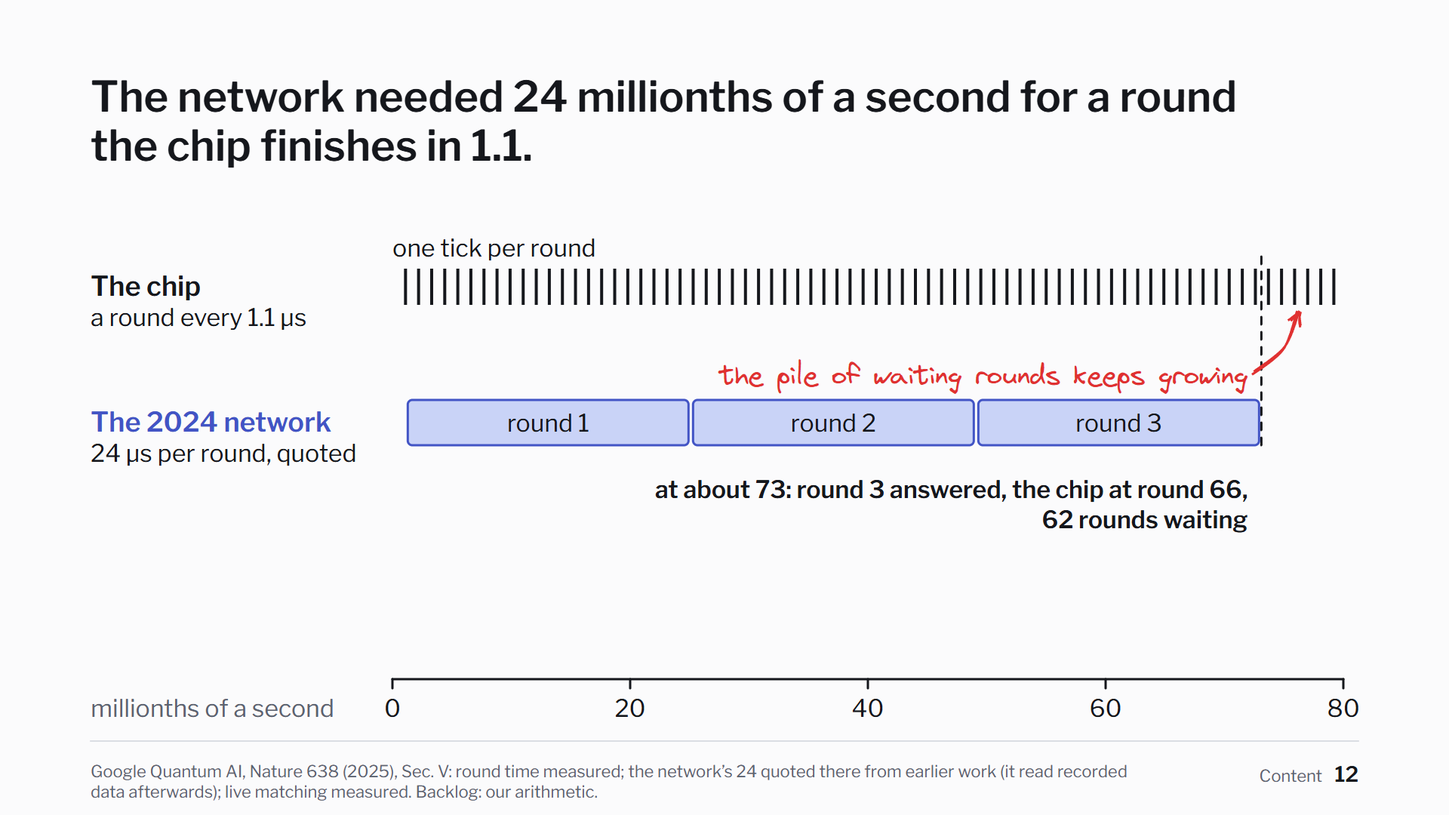
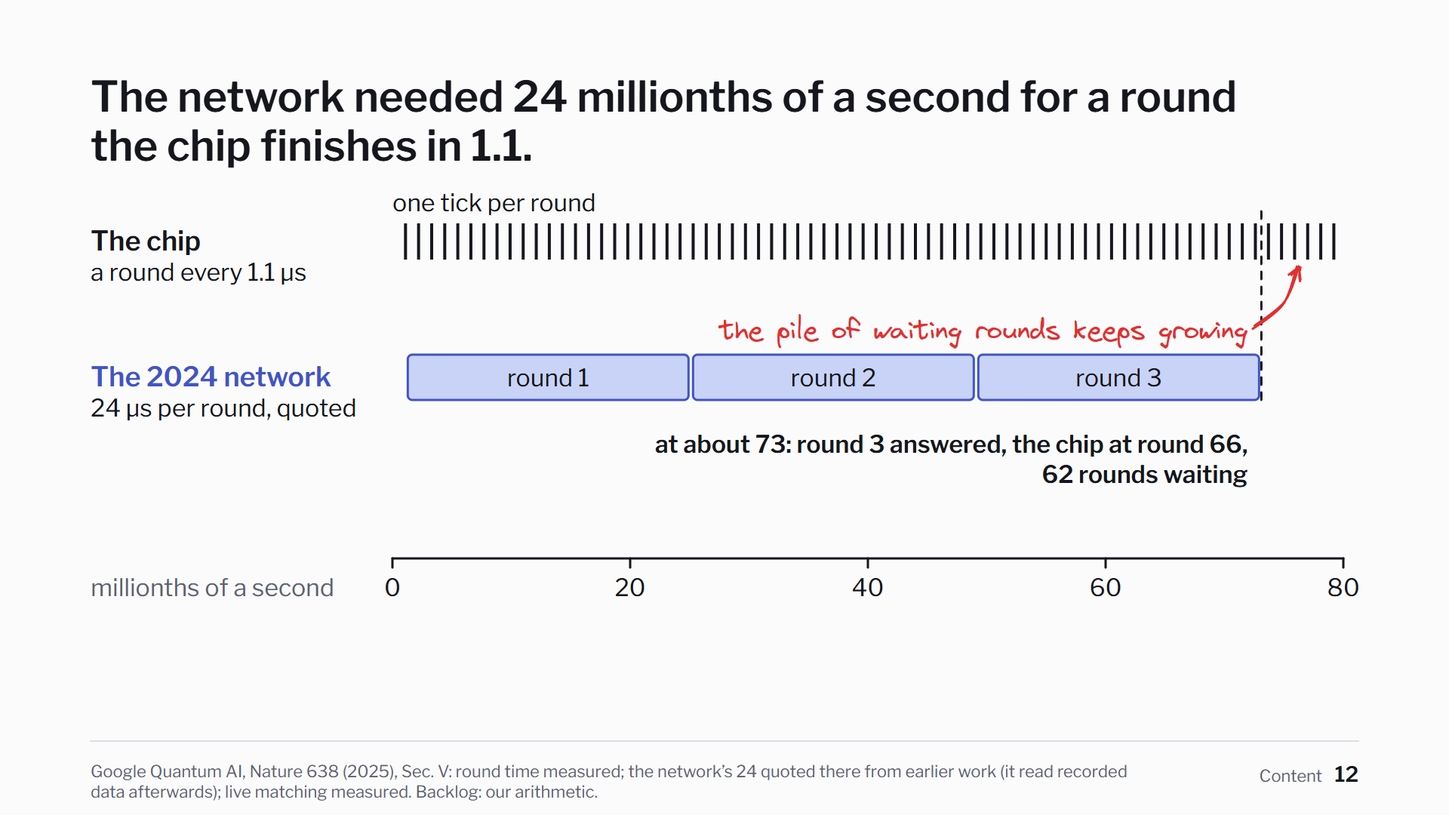
fix: clarify the quantum seminar evidence

diff --git a/talks/quantum/slides/14-ours/slide.js b/talks/quantum/slides/14-ours/slide.js
@@ -6,24 +6,24 @@
 // correlated matching dashed ink, the lookup table (distance 3 only) dotted.
 // Build 1: distance 3, and distance 5 after 66 million (axis already at 260
 // million); build 2 adds the run to about 250 million.
-import { C, L, R, svgOf, T, frame, ln, pth, h, inkLayer, PEN } from '../../kit.js';
+import { C, L, R, svgOf, T, frame, ln, pth, h } from '../../kit.js';
 
 const pct = (v, dg = 2) => `${(v * 100).toFixed(dg)}%`;
 
 export default {
   id: 'ours', n: 14, part: 'Content', builds: 2, speaker: 'B',
-  title: 'Ours passed plain matching at distance 5 only after about 250 million examples.',
+  title: 'Our distance-5 network finished between the two matchers.',
   clicks: ['distance 3; distance 5 after 66 million', 'distance 5, about 250 million'],
   draw(page, b, data) {
     const svg = svgOf(page);
     const [p3, p66, p250] = data.learning.panels;
     frame(svg, {
-      title: this.title, n: this.n, part: this.part,
-      source: 'Simulated, our own runs at 0.5% per operation (OWN-D3, OWN-D5, OWN-D5-250M): share of runs (3 rounds at distance 3, 5 at distance 5) that ended wrong. Curve points on 1 million runs, end values on 2 million.',
+      title: b === 0 ? 'At 66 million examples, distance 5 trailed both matchers.' : this.title,
+      n: this.n, part: this.part,
+      source: 'Simulated, our own runs (OWN-D3, OWN-D5, OWN-D5-250M). Each curve point uses 1 million test runs, end values use 2 million per seed.',
     });
-    T(svg, L, 312, 'share of simulated runs (3 rounds at distance 3, 5 at distance 5) that ended wrong', { size: 32, weight: 600 });
-    // the article's own tag line, in its mono face
-    T(svg, R, 222, 'our runs · simulation · noise level 0.5%', { family: 'mono', size: 30, fill: C.muted, anchor: 'end' });
+    T(svg, L, 288, 'Share of simulated runs that ended wrong', { size: 36, weight: 600 });
+    T(svg, R, 288, '0.5% circuit noise', { family: 'mono', size: 32, fill: C.ink, anchor: 'end' });
     const panel = (x0, x1, xmax, step, ylo, yhi, head) => {
       const y0 = 420, y1 = 830;
       const X = (n) => x0 + (n / xmax) * (x1 - x0);
@@ -51,30 +51,29 @@ export default {
     // each line named at its right end, outside the plot, so no label crosses a curve
     const tag = (P, r, str, o = {}) => T(svg, P.x1 + 14, P.Y(r) + 11 + (o.dy || 0), str, { size: 32, ...o });
     // left: distance 3, 0 to 70 million
-    const A = panel(L + 120, 660, 70e6, 10e6, 0.014, 0.020, 'Distance 3');
+    const A = panel(L + 120, 660, 70e6, 10e6, 0.014, 0.020, 'Distance 3 · three rounds');
     level(A, p3.levels.plain.rate); level(A, p3.levels.correlated.rate, '18 12'); level(A, p3.levels.table.rate, '3 10');
     band(A, p3);
     tag(A, p3.levels.plain.rate, `plain ${pct(p3.levels.plain.rate)}`, { dy: -6 });
     tag(A, p3.levels.correlated.rate, `correlated ${pct(p3.levels.correlated.rate)}`, { dy: 8 });
-    tag(A, p3.levels.correlated.rate, 'its lead not counted (B4)', { dy: 44, fill: C.muted });
+    tag(A, p3.levels.correlated.rate, 'see library issue (B4)', { dy: 44, fill: C.muted });
     tag(A, p3.final_network.mean, `network ${pct(p3.final_network.mean)}`, { dy: -22, weight: 600, fill: C.accent });
     tag(A, p3.levels.table.rate, `lookup table ${pct(p3.levels.table.rate)}`, { dy: 20 });
     // right: distance 5, 0 to 260 million, fixed from the first build
-    const B = panel(1180, 1540, 260e6, 50e6, 0.010, 0.028, 'Distance 5');
-    level(B, p66.levels.plain.rate); level(B, p66.levels.correlated.rate, '18 12');
-    tag(B, p66.levels.plain.rate, `plain ${pct(p66.levels.plain.rate)}`, { dy: -14 });
-    tag(B, p66.levels.correlated.rate, `correlated ${pct(p66.levels.correlated.rate)}`, { dy: 14 });
+    const B = panel(1140, 1490, 260e6, 50e6, 0.010, 0.028, 'Distance 5 · five rounds');
+    const result = b === 0 ? p66 : p250;
+    level(B, result.levels.plain.rate); level(B, result.levels.correlated.rate, '18 12');
+    tag(B, result.levels.plain.rate, `plain ${pct(result.levels.plain.rate)}`, { dy: -18, size: 36, weight: 600 });
+    tag(B, result.levels.correlated.rate, `correlated ${pct(result.levels.correlated.rate)}`, { dy: 14, size: 36, weight: 600 });
     if (b === 0) {
       const [ex, ey] = band(B, p66);
       T(svg, ex + 24, ey - 40, 'after 66 million:', { size: 32, weight: 600, fill: C.accent });
       T(svg, ex + 24, ey, 'behind in all five seeds', { size: 32, weight: 600, fill: C.accent });
     } else {
       band(B, p250);
-      tag(B, p250.final_network.mean, `network ${pct(p250.final_network.mean)}`, { dy: 18, weight: 600, fill: C.accent });
-      const ink = inkLayer(page);
-      ink.ellipse(B.X(250e6) - 6, B.Y(p250.final_network.mean) - 4, 46, 46, { stroke: PEN.red, seed: 81 });
-      ink.note(B.X(120e6), B.Y(0.0245), 'it got there, slowly', { color: PEN.red, size: 34 });
-      ink.arrow([[B.X(215e6), B.Y(0.0236)], [B.X(240e6), B.Y(0.019)], [B.X(248e6), B.Y(p250.final_network.mean) - 30]], { stroke: PEN.red, seed: 82, head: 20 });
+      tag(B, p250.final_network.mean, `network ${pct(p250.final_network.mean)}`, { dy: 22, size: 36, weight: 600, fill: C.accent });
+      T(svg, B.X(58e6), B.Y(0.026), 'training budget:', { size: 32, weight: 600 });
+      T(svg, B.X(58e6), B.Y(0.026) + 38, 'about 250 million', { size: 32, weight: 600 });
     }
   },
 };

diff --git a/talks/quantum/slides/12-clock/slide.js b/talks/quantum/slides/12-clock/slide.js
@@ -1,7 +1,5 @@
-// Slide 12: one time line in millionths of a second (clock.json). The chip
-// finishes a round every 1.1; the 2024 network needs 24 per round (quoted in
-// Google's paper), so the backlog grows; live matching on a smaller chip, in
-// its own lane with its own setup named, kept pace.
+// Slide 12: round throughput on the timeline, then end-of-run latency in
+// a separate row with its own origin (clock.json).
 import { C, L, R, svgOf, T, frame, ln, rc, inkLayer, PEN } from '../../kit.js';
 
 export default {
@@ -19,18 +17,18 @@ export default {
     });
     const x0 = 520, x1 = R - 20, T80 = 80;
     const X = (t) => x0 + (t / T80) * (x1 - x0);
-    const axisY = 900;
+    const axisY = 740;
     ln(svg, x0, axisY, x1, axisY);
     [0, 20, 40, 60, 80].forEach((t) => { ln(svg, X(t), axisY, X(t), axisY + 12); T(svg, X(t), axisY + 50, String(t), { size: 32, anchor: 'middle', fill: C.ink }); });
     T(svg, L, axisY + 50, 'millionths of a second', { size: 32, fill: C.muted });
     // lane 1: the chip
-    const y1 = 380;
+    const y1 = 320;
     T(svg, L, y1 + 12, 'The chip', { size: 36, weight: 600 });
     T(svg, L, y1 + 52, `a round every ${round} µs`, { size: 32 });
     T(svg, x0, y1 - 40, 'one tick per round', { size: 32, fill: C.ink });
     for (let t = round; t <= T80; t += round) rc(svg, X(t) - 2, y1 - 24, 4, 48, { fill: C.ink, stroke: 'none' });
     {
-      const y2 = 560;
+      const y2 = 500;
       T(svg, L, y2 + 12, 'The 2024 network', { size: 36, weight: 600, fill: C.accent });
       T(svg, L, y2 + 52, `${net} µs per round, quoted`, { size: 32 });
       for (let k = 0; k < 3; k++) {
@@ -48,13 +46,11 @@ export default {
       ink.arrow([[X(at) - 10, y2 - 66], [X(at) + 30, y2 - 100], [X(at) + 50, y1 + 34]], { stroke: PEN.red, seed: 94, head: 18 });
     }
     if (b >= 1) {
-      const y3 = 790;
-      T(svg, L, y3 - 8, 'Live matching,', { size: 36, weight: 600 });
-      T(svg, L, y3 + 34, 'distance 5, 72-qubit chip', { size: 32, weight: 600 });
-      // the delay itself, drawn on the same axis: 63 after the last round
-      rc(svg, X(0), y3 - 24, X(live.value) - X(0), 30, { fill: C.hair, stroke: C.ink, 'stroke-width': 3, rx: 4 });
-      T(svg, X(live.value) + 16, y3 + 2, String(live.value), { size: 36, weight: 600 });
-      T(svg, X(0), y3 + 46, 'its answer, on average, after the last round of a run of up to a million rounds: it kept pace', { size: 32 });
+      ln(svg, L, 836, R, 836, { stroke: C.hair, 'stroke-width': 2 });
+      T(svg, L, 889, 'Live matching kept pace', { size: 36, weight: 600 });
+      T(svg, L, 934, 'Distance 5 · 72-qubit chip', { size: 32 });
+      T(svg, 710, 889, `${live.value} µs on average to return the final answer`, { size: 36, weight: 600 });
+      T(svg, 710, 934, 'Measured from receipt of the last round’s data', { size: 32 });
     }
   },
 };

diff --git a/talks/quantum/slides/b3-noise-model/slide.js b/talks/quantum/slides/b3-noise-model/slide.js
@@ -3,10 +3,22 @@ import { svgOf, backup } from '../../kit.js';
 // Backup 3: for the questions.
 export default {
   id: 'noise-model', n: 'B3', backup: true, builds: 1,
-  title: "Our noise: the same chance of any error on every operation.",
+  title: 'Four noise mechanisms share one probability.',
   clicks: ['backup'],
-  draw(page, b, data) {
+  draw(page) {
     const svg = svgOf(page);
-    backup(svg, { title: this.title, n: this.n, source: "Stim (Gidney 2021), its standard circuit noise; article, sections 6 and 9, and 'What we could not show'." }, { rows: [["The course", "The phase-flip channel: with chance p a qubit gets a phase error (Z).", "Our model contains it as one of its parts."], ["Ours", "Every operation in the simulated circuit goes wrong with the same", "chance p, with a flip, a phase error or both (X, Z or Y): depolarizing noise."], ["The levels", "Trained at seven levels from 0.2% to 1%; tested at 0.5%,", "five times the one slip per thousand of slide 2."], ["Not modelled", "Qubits that slip into a third state (leakage), and chances of error", "that differ from operation to operation, as on a real chip."]] });
+    backup(svg, {
+      title: this.title, n: this.n,
+      source: 'The four parameters passed to Stim’s rotated surface-code circuit in our simulation (OWN-D3, OWN-D5, OWN-D5-250M).',
+    }, {
+      rows: [
+        ['Random Pauli errors', 'Depolarization after Clifford gates and on storing qubits before each round.',
+          'It includes phase errors (Z).'],
+        ['Flips', 'Preparation flips after resets and readout flips before measurements.'],
+        ['Noise levels', 'The same parameter p for all four settings.',
+          'Trained at 0.2% to 1%. Main test at 0.5%.'],
+        ['Limits', 'Real chips can leak into a third state and have different rates per operation.'],
+      ],
+    });
   },
 };

diff --git a/talks/quantum/slides/b7-preprint/slide.js b/talks/quantum/slides/b7-preprint/slide.js
@@ -3,10 +3,19 @@ import { svgOf, backup } from '../../kit.js';
 // Backup 7: for the questions.
 export default {
   id: 'preprint', n: 'B7', backup: true, builds: 1,
-  title: "AlphaQubit 2 claims a network that keeps pace. Nobody has reviewed it yet.",
+  title: 'AlphaQubit 2 reports the throughput needed for a superconducting chip.',
   clicks: ['backup'],
-  draw(page, b, data) {
+  draw(page) {
     const svg = svgOf(page);
-    backup(svg, { title: this.title, n: this.n, source: "Claimed: arXiv:2512.07737 (December 2025), not peer-reviewed; read from its abstract." }, { rows: [["The claim", "Under one millionth of a second per round,", "on accelerator chips that can be bought."], ["The range", "Surface code grids up to distance 11."], ["Our position", "We can't test it. Until others review it, it stays a claim."]] });
+    backup(svg, {
+      title: this.title, n: this.n,
+      source: 'AlphaQubit 2 preprint, arXiv:2512.07737v2, section 4 and Figure 4.',
+    }, {
+      rows: [
+        ['Throughput', 'Under one millionth of a second per round on Trillium TPUs.'],
+        ['Setup', 'Simulated surface-code data through distance 11.'],
+        ['Open question', 'Can a live chip get each answer in time to use it?'],
+      ],
+    });
   },
 };

diff --git a/talks/quantum/slides/15-properties/slide.js b/talks/quantum/slides/15-properties/slide.js
@@ -17,7 +17,7 @@ export default {
       ['Performance', `ours at distance 5: ${(p.final_network.mean * 100).toFixed(2)}% of runs wrong`, `correlated matching ${(p.levels.correlated.rate * 100).toFixed(2)}%, plain ${(p.levels.plain.rate * 100).toFixed(2)}%`],
       ['Speed-up', 'none', 'it is classical software that serves the chip'],
       ['Relevance', 'on Google’s data: Λ from 2.04 to 2.14, the reader alone', 'at Λ near 2, one more halving costs 64 qubits (97 to 161)'],
-      ['Availability', 'about 250 million examples to pass plain matching', 'correlated matching is free; a network at live speed is only claimed'],
+      ['Availability', 'our longer run used about 250 million examples', 'correlated matching is free. AQ2 reports stream throughput.'],
     ];
     const y0 = 330, hh = 118;
     const boxA = [], boxC = [];

diff --git a/talks/quantum/slides/13-method/slide.js b/talks/quantum/slides/13-method/slide.js
@@ -23,8 +23,8 @@ export default {
         ink.arrow([[x1, y], [(x1 + x2) / 2, y - 22 + i * 10], [x2, y]], { seed: 60 + i, head: 24 });
       }
     });
-    ink.note(140, y + 150, 'the same chance of error on every operation;', { size: 36 });
-    ink.note(140, y + 196, 'trained at 0.2% to 1%, tested at 0.5%', { size: 36 });
+    ink.note(140, y + 150, 'four noise mechanisms share one probability', { size: 36 });
+    ink.note(140, y + 196, 'trained at 0.2% to 1%, main test at 0.5%', { size: 36 });
     ink.note(1180, y + 150, 'it never sees the', { size: 36, color: PEN.blue });
     ink.note(1180, y + 196, 'grid’s layout', { size: 36, color: PEN.blue });
     if (b < 1) return;

diff --git a/talks/quantum/CUES.md b/talks/quantum/CUES.md
@@ -6,47 +6,47 @@ Generated by `node tools/qdeck.mjs` from each slide's `notes.md`. Times: the not
 | ---: | --- | ---: | --- | --- | --- |
 | 1 | 1 recording | 0:00 | 1 of 2 | the talk, the drawing |  |
 | 2 | 1 recording |  | 2 of 2 | two readers, two rates | One recording from Google’s chip gave two error rates. |
-| 3 | 2 threshold | 0:56 | 1 of 1 | slips against steps; the threshold, sketched | A bigger grid helps when each qubit is below the threshold. |
-| 4 | 3 logical | 1:55 | 1 of 1 | three qubits together; no copy | A logical qubit keeps its value in how its qubits relate. |
-| 5 | 4 grid | 2:41 | 1 of 3 | distance 3 |  |
+| 3 | 2 threshold | 0:57 | 1 of 1 | slips against steps; the threshold, sketched | A bigger grid helps when each qubit is below the threshold. |
+| 4 | 3 logical | 1:56 | 1 of 1 | three qubits together; no copy | A logical qubit keeps its value in how its qubits relate. |
+| 5 | 4 grid | 2:42 | 1 of 3 | distance 3 |  |
 | 6 | 4 grid |  | 2 of 3 | distance 5 |  |
 | 7 | 4 grid |  | 3 of 3 | distance 7 | Only about half of a logical qubit’s qubits store anything. |
-| 8 | 5 checks | 3:12 | 1 of 3 | the grid and its two kinds of check |  |
+| 8 | 5 checks | 3:13 | 1 of 3 | the grid and its two kinds of check |  |
 | 9 | 5 checks |  | 2 of 3 | one flip: two checks fire |  |
 | 10 | 5 checks |  | 3 of 3 | a line of two: only its end fires | A check reports whether the number of errors next to it is even or odd. |
-| 11 | 6 film | 4:20 | 1 of 3 | the film and its enlarged frame |  |
+| 11 | 6 film | 4:21 | 1 of 3 | the film and its enlarged frame |  |
 | 12 | 6 film |  | 2 of 3 | what the film is |  |
 | 13 | 6 film |  | 3 of 3 | what a frame says | The chip puts out a film of fired checks, one frame per round. |
-| 14 | 7 matching | 5:13 | 1 of 1 | the pairing puzzle | The standard decoder, matching, pairs fired checks along the cheapest lines. |
-| 15 | 8 silent | 5:52 | 1 of 1 | what happened, what the chip reports, what the decoder adds | Errors plus a wrong correction can cross the grid without firing a single check. |
-| 16 | 9 patterns | 6:40 | 1 of 1 | 256 patterns, 24 filled | Matching gives the less likely answer on 24 of the 256 patterns we counted. |
-| 17 | 10 two-ways | 7:41 | 1 of 2 | plain matching’s answer |  |
+| 14 | 7 matching | 5:14 | 1 of 1 | the pairing puzzle | The standard decoder, matching, pairs fired checks along the cheapest lines. |
+| 15 | 8 silent | 5:53 | 1 of 1 | what happened, what the chip reports, what the decoder adds | Errors plus a wrong correction can cross the grid without firing a single check. |
+| 16 | 9 patterns | 6:41 | 1 of 1 | 256 patterns, 24 filled | Matching gives the less likely answer on 24 of the 256 patterns we counted. |
+| 17 | 10 two-ways | 7:26 | 1 of 2 | plain matching’s answer |  |
 | 18 | 10 two-ways |  | 2 of 2 | the Y answer, two ways | The Y answer is right six times in ten because it can happen in two ways. |
-| 19 | 11 google | 8:56 | 1 of 2 | Google’s best matching decoder |  |
+| 19 | 11 google | 8:41 | 1 of 2 | Google’s best matching decoder |  |
 | 20 | 11 google |  | 2 of 2 | the network | On Google’s recordings the network made about one error in six fewer. |
-| 21 | 12 clock | 9:50 | 1 of 2 | the chip’s rounds and the network’s answers |  |
+| 21 | 12 clock | 9:35 | 1 of 2 | the chip’s rounds and the network’s answers |  |
 | 22 | 12 clock |  | 2 of 2 | live matching, another setup | The network needed 24 millionths of a second for a round the chip finishes in 1.1. |
-| 23 | 13 method | 10:49 | 1 of 2 | the pipeline |  |
+| 23 | 13 method | 10:35 | 1 of 2 | the pipeline |  |
 | 24 | 13 method |  | 2 of 2 | what it is compared with; the stop rule | We trained a small network in simulation and wrote down our stop rule first. |
-| 25 | 14 ours | 11:50 | 1 of 2 | distance 3; distance 5 after 66 million |  |
-| 26 | 14 ours |  | 2 of 2 | distance 5, about 250 million | Ours passed plain matching at distance 5 only after about 250 million examples. |
-| 27 | 15 properties | 12:59 | 1 of 2 | four properties |  |
+| 25 | 14 ours | 11:16 | 1 of 2 | distance 3; distance 5 after 66 million |  |
+| 26 | 14 ours |  | 2 of 2 | distance 5, about 250 million | Our distance-5 network finished between the two matchers. |
+| 27 | 15 properties | 12:05 | 1 of 2 | four properties |  |
 | 28 | 15 properties |  | 2 of 2 | what the stop rule decided | A decoder gives no quantum speed-up, but its accuracy changes how big a useful machine must be. |
 | 29 | end questions |  | 1 of 1 | questions | Questions |
 | 30 | BB1 uncompute |  | 1 of 1 | backup | A helper learns only the parity, and is reset for the next round. |
 | 31 | BB2 cost |  | 1 of 1 | backup | Why a network at all, and what it costs as the grid grows. |
-| 32 | BB3 noise-model |  | 1 of 1 | backup | Our noise: the same chance of any error on every operation. |
+| 32 | BB3 noise-model |  | 1 of 1 | backup | Four noise mechanisms share one probability. |
 | 33 | BB4 correlated |  | 1 of 1 | backup | Correlated matching failed on 6 of 219 single errors in our setup. |
 | 34 | BB5 noise-table |  | 1 of 1 | backup | Distance 5: the network against both matchers at eight noise levels. |
 | 35 | BB6 second-script |  | 1 of 1 | backup | A separately written script found the same order at distance 5. |
-| 36 | BB7 preprint |  | 1 of 1 | backup | AlphaQubit 2 claims a network that keeps pace. Nobody has reviewed it yet. |
+| 36 | BB7 preprint |  | 1 of 1 | backup | AlphaQubit 2 reports the throughput needed for a superconducting chip. |
 | 37 | BB8 recordings |  | 1 of 1 | backup | The test on Google’s public recordings is still open. |
 
-**Main talk:** 1644 words, 14:06 in all. Contrast sentences in the notes: 0.
+**Main talk:** 1512 words, 13:05 in all. Contrast sentences in the notes: 0.
 
 | Slide | Seconds | Words |
 | ---: | ---: | ---: |
-| 1 recording | 56 | 110 |
+| 1 recording | 57 | 112 |
 | 2 threshold | 59 | 119 |
 | 3 logical | 46 | 91 |
 | 4 grid | 31 | 51 |
@@ -54,10 +54,10 @@ Generated by `node tools/qdeck.mjs` from each slide's `notes.md`. Times: the not
 | 6 film | 53 | 99 |
 | 7 matching | 40 | 77 |
 | 8 silent | 47 | 94 |
-| 9 patterns | 61 | 107 |
+| 9 patterns | 45 | 72 |
 | 10 two-ways | 75 | 150 |
 | 11 google | 54 | 106 |
-| 12 clock | 59 | 115 |
-| 13 method | 61 | 121 |
-| 14 ours | 69 | 138 |
-| 15 properties | 67 | 133 |
+| 12 clock | 60 | 117 |
+| 13 method | 42 | 78 |
+| 14 ours | 49 | 94 |
+| 15 properties | 60 | 119 |

diff --git a/talks/quantum/QUESTIONS.md b/talks/quantum/QUESTIONS.md
@@ -11,7 +11,7 @@ In this course it is where machine learning works for quantum hardware. A neural
 No. The network is ordinary classical software that reads the chip's checks. It gives no quantum speed-up (slide 15).
 
 **What do your results mean for the four properties?**
-Performance: at distance 5 ours passed plain matching after about 250 million examples, and correlated matching stayed about a fifth ahead. Speed-up: none. Relevance: on Google's data the reader alone moved Λ from 2.04 to 2.14. Availability: correlated matching is free; a network that keeps pace live is only claimed so far (slide 15).
+Performance: at distance 5 and 0.5% circuit noise, the network trained with about 250 million examples had 1.33% failures. Plain matching had 1.41% and correlated matching had 1.09%. Speed-up: none. Relevance: on Google's data the reader alone moved Λ from 2.04 to 2.14. Availability: correlated matching is free. AlphaQubit 2 reports throughput on accelerators (B7).
 
 ## On the basics
 
@@ -22,7 +22,7 @@ It stores the value in how several qubits relate, never in one of them; no copy 
 A helper starts at 0, collects the parity of its two or four neighbours through controlled-NOTs and is measured. Only even or odd comes out, the same whatever is stored; the helper is reset for the next round.
 
 **Where are decoherence and the phase-flip channel in your noise model?** (B3)
-Every operation in our simulation goes wrong with the same chance p: a flip, a phase error or both. The phase-flip channel is the phase-error part of that.
+We use one p for four Stim settings: depolarization after Clifford gates, data depolarization before each round, flips after resets, and flips before measurements. Depolarization includes phase flips. It approximates some effects of decoherence.
 
 **What is the threshold?**
 An error rate per qubit below which a bigger grid protects better. Google was barely there in 2023 and clearly below it in 2024 (slide 2).
@@ -30,7 +30,7 @@ An error rate per qubit below which a bigger grid protects better. Google was ba
 ## On the method
 
 **A lookup table reaches 1.47% at distance 3. Why a network at all?** (B2)
-The table is our estimate of the best possible at distance 3, and the network's 1.48% is barely above it. The table needs an entry for every pattern of fired checks. How the network's cost grows with the grid is what we measured: 6.6 to 9.3 million examples at distance 3, about 250 million at distance 5.
+The table is our estimate of the best possible at distance 3, and the network's 1.48% is barely above it. The table needs an entry for every pattern of fired checks. At distance 3 the first sampled points below plain matching were between 6.6 and 9.3 million examples. At distance 5, 66 million fell short and the run budgeted at about 250 million passed plain matching.
 
 **You gave matching the exact error model. Isn't that unfair?**
 It is unfair to the network: matching won't have the exact model on a chip. So the comparison leans towards matching.
@@ -42,12 +42,12 @@ Only simulation. The test on Google's public recordings is the second half of ou
 We don't know the cause. Plain matching corrects all 219 single error mechanisms; correlated matching gets 6 wrong in our setup (PyMatching 2.4.0, called as documented), and a second script written separately found the same six. We state it for our setup only and don't count the distance-3 lead over correlated matching.
 
 **How sure is "250 million"?**
-It is a training budget, not a measured minimum. The curves first fell below plain matching between 210 and 250 million (learning.json, panel d5-250m), and the falling learning rate at the end of each run helps (slide 14).
+It is the budget for our longer run. The first sampled points below plain matching were between 210 and 250 million (learning.json, panel d5-250m). We reduced the learning rate toward the end of each run, and the minimum training budget remains unknown.
 
 ## On speed
 
 **Can the network keep up?**
-Google's paper quotes 24 millionths of a second per round for its network, against a round every 1.1 (slide 12). A December 2025 preprint claims under one per round, not yet reviewed (B7).
+Google's paper quotes 24 millionths of a second per round for its network, against a round every 1.1 (slide 12). The AlphaQubit 2 preprint reports under one per round on simulated data. That measures stream throughput outside a live feedback loop (B7).
 
 **How fast is yours?** (B2)
 Roughly 14 to 27 millionths of a second per run on one laptop core, emulated, with an untrained network of the same size. That isn't a live decoder, so we don't set it against the chip's clock.

diff --git a/talks/quantum/slides/14-ours/notes.md b/talks/quantum/slides/14-ours/notes.md
@@ -1,7 +1,7 @@
-# 14 · Ours passed plain matching at distance 5 only after about 250 million examples
+# 14 · Our distance-5 network finished between the two matchers
 
-At distance 3 the network beat plain matching early: 1.48 percent of runs wrong, against 1.72, barely above the lookup table. Its lead over correlated matching we don't count: in our setup that decoder fails on a few single errors, for a reason we haven't traced (backup 4).
+At distance 3 the network beat plain matching early. We set aside its lead over correlated matching because that decoder missed six single errors in this setup (backup 4).
 
-One size up, after the same 66 million examples, it was behind in all five seeds. We trained again on nearly four times as many. After about 250 million it reached 1.33 percent, between plain matching at 1.41 and correlated matching at 1.09. The curves first fell below plain matching between 210 and 250 million examples, and the falling learning rate helps the end, so read it as a training budget and not as a measured minimum.
+At distance 5, all five runs with 66 million examples finished behind both matchers. We started over with a budget of about 250 million examples. At half a percent noise, the network failed in 1.33 percent of runs. Plain matching failed in 1.41 percent. Correlated matching did best, at 1.09. A smaller budget might have been enough.
 
-**Ours passed plain matching at distance 5 only after about 250 million examples.**
+**Our distance-5 network finished between the two matchers.**

diff --git a/talks/quantum/slides/15-properties/notes.md b/talks/quantum/slides/15-properties/notes.md
@@ -1,6 +1,6 @@
 # 15 · A decoder gives no quantum speed-up, but its accuracy changes how big a useful machine must be
 
-In the course's four properties. Performance: ours passed plain matching at distance 5, and correlated matching stayed about a fifth ahead. Speed-up: none, this is classical software serving the chip. Relevance: on Google's data the reader alone moved lambda from 2.04 to 2.14, and with lambda near 2 one more halving costs 64 qubits. Availability: correlated matching is free and needs no training, and a network that keeps pace live is so far only claimed.
+In the course's four properties. Performance: at distance 5, our network had about a fifth more failures than correlated matching. Speed-up: none, this is classical software serving the chip. Relevance: on Google's data the reader alone moved lambda from 2.04 to 2.14. With lambda near 2, one more halving costs 64 qubits. Availability: correlated matching is free and needs no training.
 
 Our stop rule had two tests. The first is passed: we trained on a GPU, and by our timing a laptop would need under two hours per seed. The second, Google's real recordings, is still open, and correlated matching stays ahead.
 

diff --git a/talks/quantum/slides/13-method/notes.md b/talks/quantum/slides/13-method/notes.md
@@ -1,5 +1,5 @@
 # 13 · We trained a small network in simulation and wrote down our stop rule first
 
-We measured what a small network costs to train. We simulated the surface code with Stim, with the same chance of error on every operation, trained at seven noise levels and tested at half a percent. The network is plain: three layers of 256 units, and it sees only which checks fired. We compared it with plain matching and with correlated matching, which runs the puzzle in two passes. Both got the exact error model, so the comparison leans towards matching. At distance 3 a lookup table gives our estimate of the best possible. And before we started, we wrote down when we would drop the idea.
+We simulated the surface code in Stim. Four kinds of noise share one probability. We trained at seven noise levels, with half a percent as our main test setting. Our network has three layers of 256 units and only sees which checks fired. Both matching baselines got the simulator's exact error model. Before we started, we wrote down when we would drop the idea.
 
 **We trained a small network in simulation and wrote down our stop rule first.**

diff --git a/talks/quantum/slides/09-patterns/notes.md b/talks/quantum/slides/09-patterns/notes.md
@@ -1,5 +1,5 @@
 # 9 · Matching gives the less likely answer on 24 of the 256 patterns we counted
 
-We went down to the smallest grid, where every case can be counted, and compared two answers for every pattern of fired checks: matching's and the most likely one. On 24 of the 256 patterns, matching's answer is less likely than another. On 144 more, two answers are exactly as likely, and no decoder can do better there. The 24 are rare: together under one case in a hundred. The five percent error per storing qubit, with checks that never report wrongly, only makes the counting easy; a real chip is far better.
+On the smallest grid we can count every case. We gave each storing qubit a five percent chance of an error and assumed perfect checks. Matching shares the best answer on 144 patterns, with two or four outcomes tied. The 24 shaded patterns together occur less than once in a hundred cases. Let's take one of them apart.
 
 **Matching gives the less likely answer on 24 of the 256 patterns we counted.**
